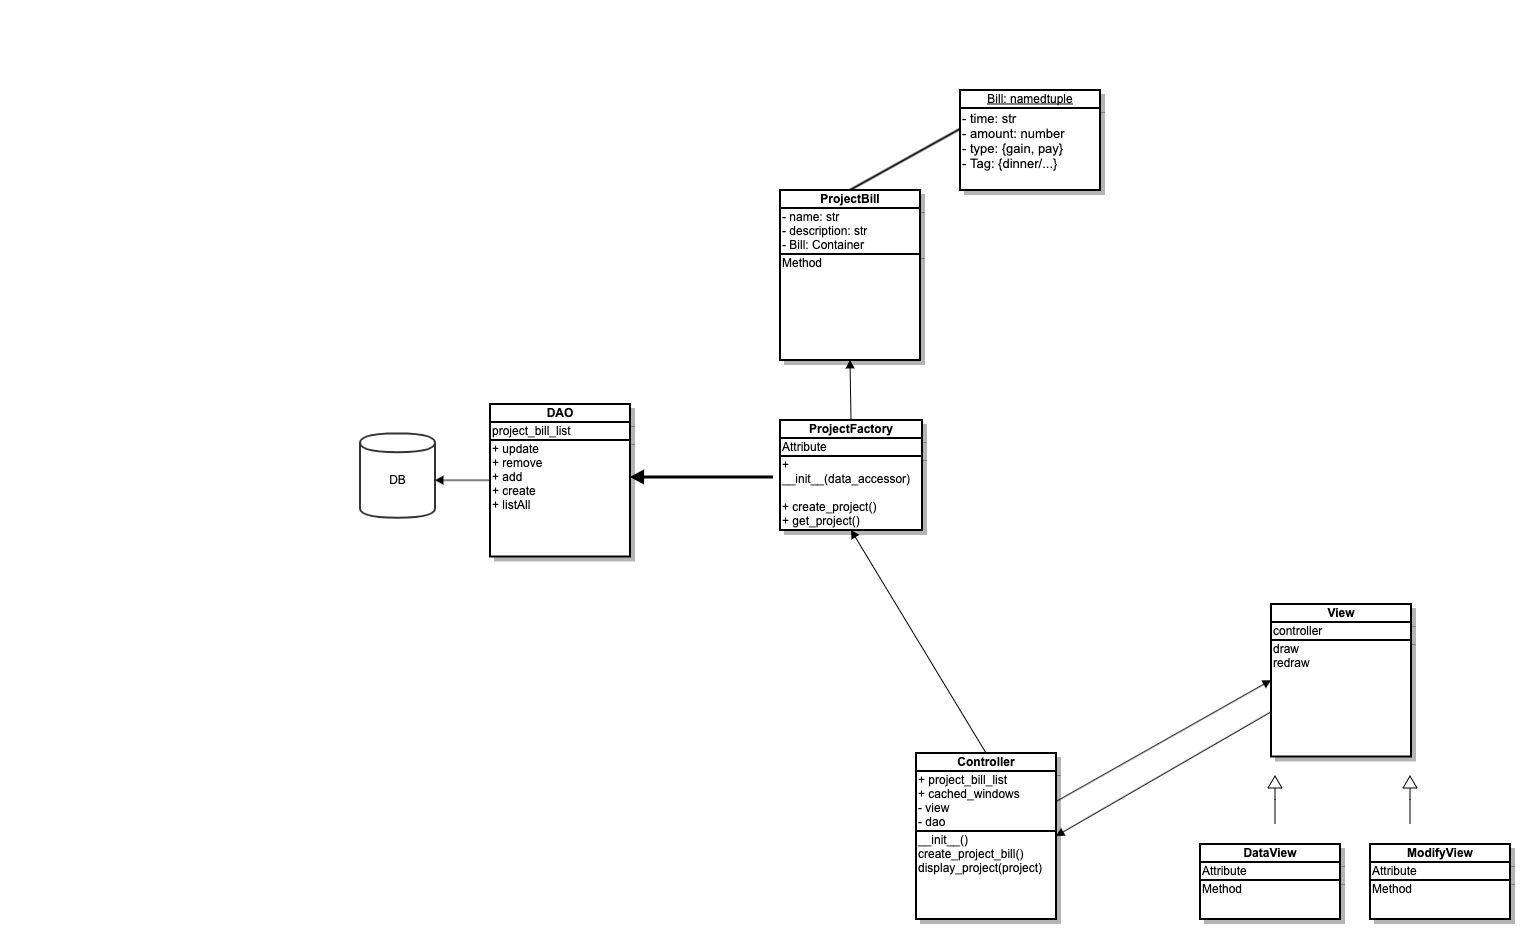
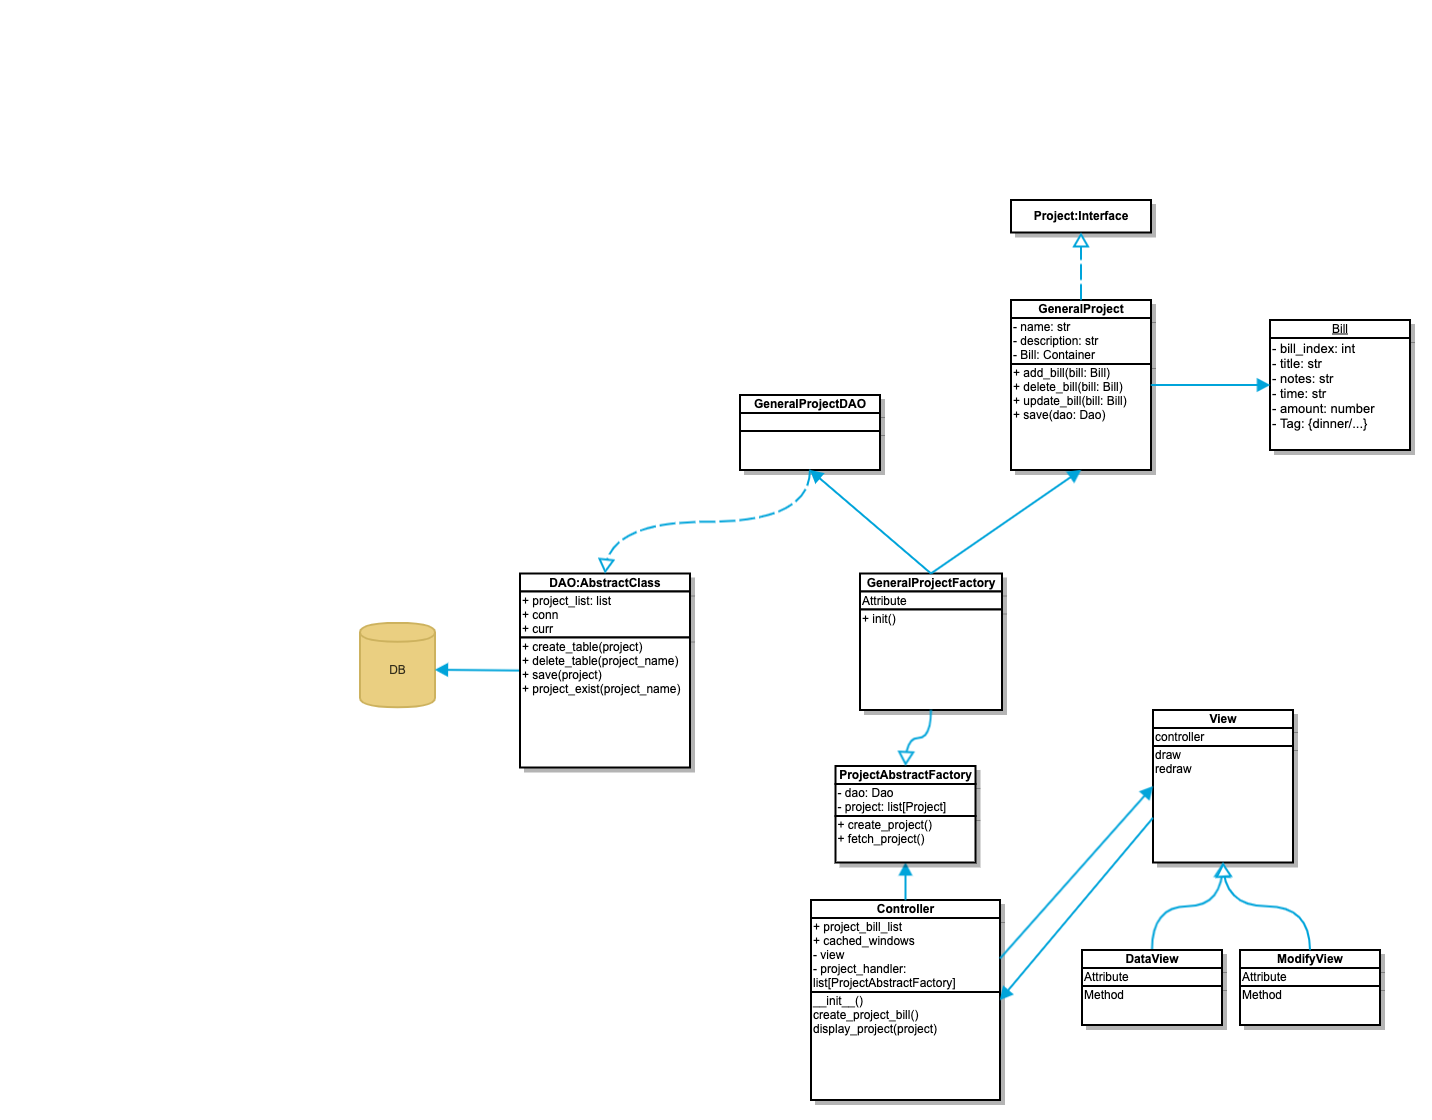
pbank updated: uml, classes

diff --git a/Pbank/src/model.py b/Pbank/src/model.py
@@ -1,12 +1,63 @@
+import data_util as dao
+
+
+class ProjectAbstractFactory(object):
+
+    def __init__(self, dao):
+        self.data_accessor = dao
+        self.project_list = []
+
+    def fetch_project(self):
+        raise NotImplementedError
+
+    def create_project(self):
+        raise NotImplementedError
+
+
+class Bill(object):
+    '''
+    Used to store transfer record
+    '''
+
+    def __init__(self, *, bill_index: int, amount, time: str,
+                 tags: list, title: str = None, note: str = 'No description'):
+
+        self._bill_index = bill_index
+        self.tags = tags
+        self.amount = amount
+        self.time = time
+        self._title = title
+        self.note = note
+
+    @property
+    def title(self):
+        return self._title
+
+    @title.setter
+    def title(self, title: str):
+        '''
+        If no title is provided, should not be created
+        '''
+        if not isinstance(title, str):
+            raise ValueError('Title should be a str')
+
+        if title is None:
+            return ValueError('Bill must have a Title or tag')
+        else:
+            self._title = title
+
+
 class Project(object):
     '''
     Model class, project
     '''
 
     def __init__(self, name: str, description: str):
-        self.name = name
-        self.description = description
-        self._bills = []
+        self.name: str = name
+        self.description: str = description
+
+        self._bills: list = []
+        # use to store a snapshoot of data stored in db.
 
     def add_bill(bill):
         raise NotImplementedError
@@ -18,22 +69,35 @@ class Project(object):
         raise NotImplementedError
 
 
-class ProjectFactory(object):
+class GeneralProjectFactory(ProjectAbstractFactory):
     '''
     Project Factory
     '''
 
-    def __init__(self, data_accessor):
-        self.data_accessor = data_accessor
+    def __init__(self):
+        super().__init__(dao.GeneralProjectDAO())
 
     def fetch_project(self, project_name: str) -> Project:
         '''
         This method tends to build and return a Project with project_name
         '''
-        pass
+        if not self.data_accessor.project_exist(project_name):
+            return ValueError(
+                'Project {} doesn\'t exist.'.format(project_name))
+        else:
+            '''
+            fetch data from data_accessor
+                and build the Project object.
+            '''
+            raise NotImplementedError
 
-    def create_project(self):
+    def create_project(self, project_name: str,
+                       description='Project Description'):
         '''
         This method tends to create a new project
         '''
-        pass
+        if self.data_accessor.project_exist(project_name):
+            raise ValueError('Project {} already exist.'.format(project_name))
+        else:
+            project = Project(project_name, description)
+            return project

diff --git a/Pbank/src/data_util.py b/Pbank/src/data_util.py
@@ -1,0 +1,43 @@
+import sqlite3
+
+class DAO(object):
+    '''
+    Data Access Object
+    '''
+
+    def __init__(self):
+        self._conn = sqlite3.connect('data/pbank.db')
+        self._curr = self._conn.cursor()
+        self.project_list = []
+
+        # init db
+        self._init_db()
+
+    def create_table(self, project):
+        raise NotImplementedError
+
+    def delete_table(self, project_name: str):
+        '''
+        delete table related to project
+        '''
+        raise NotImplementedError
+
+    def project_exist(self, project_name: str) -> bool:
+        if project_name in self.project_list:
+            return True
+        else:
+            return False
+
+    def save(self, project):
+        '''
+        save changes of project
+        '''
+        raise NotImplementedError
+
+    def _init_db(self):
+        print('Init')
+        pass
+        # raise NotImplementedError
+
+class GeneralProjectDAO(DAO):
+    pass

diff --git a/Pbank/src/main.py b/Pbank/src/main.py
@@ -1,0 +1,6 @@
+import model
+import data_util as dao
+
+if __name__ == '__main__':
+    project_handler = model.GeneralProjectFactory()
+
